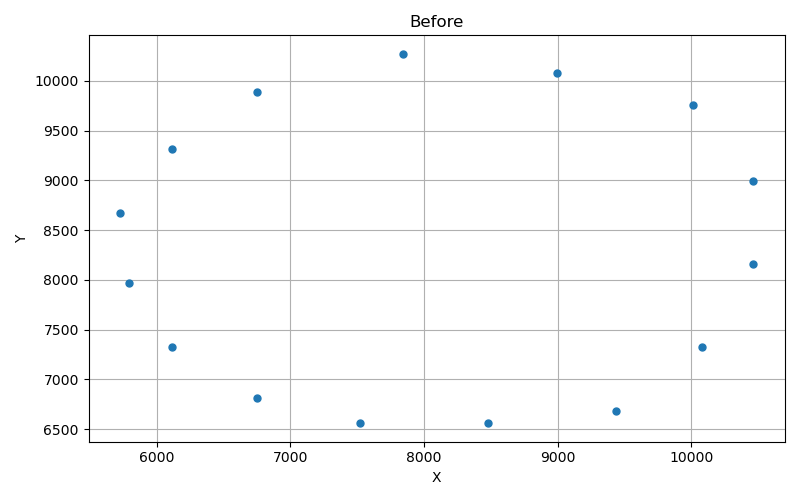
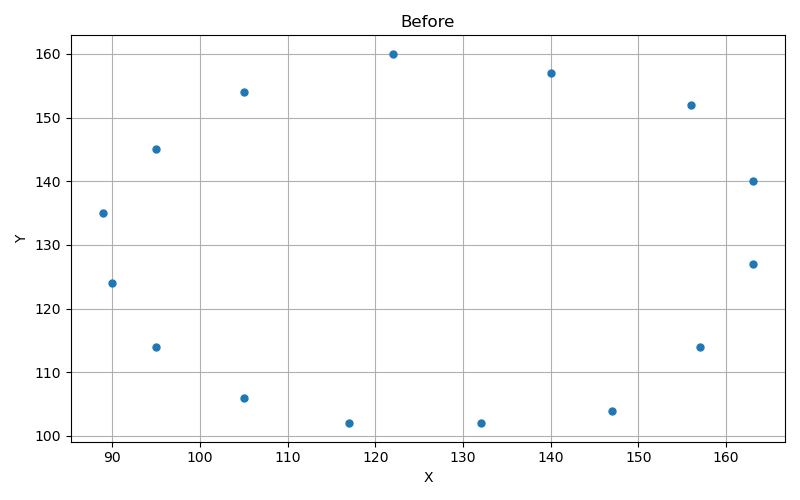
Cleaned up files

diff --git a/server/src/engine/terrain-map.ts b/server/src/engine/terrain-map.ts
@@ -1,6 +1,7 @@
 import fs from 'fs';
 import path from 'path';
-import { getTilesetFromLayer } from '../utils/tile-layer';
+import { getTilesetFromLayer } from '../utils/tiles';
+import { buildPathSpline } from 'src/utils/splines';
 
 /**
  * Breaks down a tilemap into its constituent layers, as well as providing helper methods
@@ -9,8 +10,8 @@ import { getTilesetFromLayer } from '../utils/tile-layer';
  * to account for any "new" tiles here.
  */
 export default class TerrainMap {
-    private mapLayers: Map<string, Set<string>> = new Map();
-    private pathNodes: Array<number> = [];
+    private mapLayers: Map<string, Array<{ x: number, y: number }>> = new Map();
+    public npcPath: Array<{x: number, y: number}> = [];
     public readonly tileWidth: number;
     public readonly mapWidth: number;
     public readonly mapHeight: number;
@@ -36,9 +37,6 @@ export default class TerrainMap {
         this.mapLayers.set('npc-ship-path', getTilesetFromLayer(mapData, 'npc-ship-path') || new Set());
     }
 
-
-
-
     /**
      * Helper method for determining if a given object is on a "solid" island tile or not
      * @param worldX the absolute x coordinate of that object
@@ -55,13 +53,22 @@ export default class TerrainMap {
             return false;
         }
 
-        return islandTiles.has(`${tileX},${tileY}`);
+        return islandTiles.includes({ x: tileX, y: tileY });
+    }
+
+    getNPCPathNodes()
+    {
+        const nodes = this.getTileset('npc-ship-path');
+        this.npcPath = buildPathSpline(nodes, 0.5, 25, true);
     }
 
 
-
-
-    public getTileset(layerName: string) {
+    /**
+     * Gets the array of x and y coordinates for the corresponding layer in the map
+     * @param layerName the name of the layer for which to find coordinates
+     * @returns an array of x and y coordinates, or an empty array if not found
+     */
+    public getTileset(layerName: string): Array<{x: number, y: number}> {
         const layer = this.mapLayers.get(layerName);
 
         if (!layer) {
@@ -69,13 +76,7 @@ export default class TerrainMap {
             return [];
         }
 
-        return Array.from(layer).map(key => {
-            const [tileX, tileY] = key.split(',').map(Number);
-            return {
-                worldX: tileX * this.tileWidth + this.tileWidth / 2,
-                worldY: tileY * this.tileWidth + this.tileWidth / 2
-            };
-        });
+        return layer;
     }
 
     /**

diff --git a/server/src/utils/tiles.ts b/server/src/utils/tiles.ts
@@ -1,0 +1,39 @@
+import { WorldMap } from "../types";
+
+/**
+ * Gets an array of x, y coordinates extracted from the map data.
+ * @param mapData an object read in from the map .json
+ * @param layerName the name of the layer to get, e.g. "islands"
+ * @returns an array of x and y coordinates for the tiles in that layer
+ */
+export function getTilesetFromLayer(mapData: WorldMap, layerName: string): Array<{ x: number, y: number }> {
+    // Get the requested layer
+    const layer = mapData.layers.find((l: any) => l.name === layerName);
+    const mapWidth = mapData.width;
+    let output: Array<{ x: number, y: number }> = [];
+
+    // No layer found
+    if (!layer?.data) {
+        console.warn(`[Tiles] No tilemap layer found with name: ${layerName}`);
+        return []; // break early
+    }
+
+    // Read into a buffer
+    let tileArray: Uint32Array | number[];
+    const buffer = Buffer.from(layer.data, 'base64');
+    tileArray = new Uint32Array(buffer.buffer, buffer.byteOffset, buffer.length / 4);
+
+
+    // Create the tileset from the buffer
+    tileArray.forEach((tileGid, index) => {
+        if (tileGid !== 0) {
+            const tileX = index % mapWidth;
+            const tileY = Math.floor(index / mapWidth);
+            output.push({ x: tileX, y: tileY });
+        }
+    });
+
+    // Output the loaded tileset
+    console.log(`[Tiles] Loaded ${output.length} tiles from layer: ${layerName}`);
+    return output;
+}

diff --git a/scripts/test-npc-paths.ts b/scripts/test-npc-paths.ts
@@ -1,13 +1,11 @@
 import * as path from "path";
 import fs from 'fs';
-import { sortByNearestNeighbour } from "../server/src/utils/nearest-sort"
-import { buildPathSpline } from "../server/src/utils/build-path";
-import { createPlot } from "../server/src/utils/plot";
-import { getTilesetFromLayer } from "../server/src/utils/tile-layer";
+import { buildPathSpline, sortByNearestNeighbour } from "../server/src/utils/splines";
+import { createPlot } from "./plot";
+import { getTilesetFromLayer } from "../server/src/utils/tiles";
 
 const TILEMAP_PATH = path.join(__dirname, "../shared/demo-map.json");
 const LAYER_NAME = "npc-ship-path";
-const TILE_SIZE = 64;
 
 
 
@@ -16,12 +14,11 @@ async function main() {
     // Read from the tilemap
     const mapData = JSON.parse(fs.readFileSync(TILEMAP_PATH, 'utf-8'));
 
-
-    const raw = getTilesetFromLayer(TILEMAP_PATH, LAYER_NAME);
+    const raw = getTilesetFromLayer(mapData, LAYER_NAME);
     console.log(`Found ${raw.length} path nodes`);
 
     const sorted = sortByNearestNeighbour(raw);
-    const spline = buildPathSpline(sorted, 0.5, 25, true);
+    const spline = buildPathSpline(raw, 0.5, 25, true);
 
     await createPlot({ x: sorted.map(n => n.x), y: sorted.map(n => n.y), title: "Before", output: "before.png" });
     await createPlot({ x: spline.map(n => n.x), y: spline.map(n => n.y), title: "After", output: "after.png" });

diff --git a/server/src/utils/splines.ts b/server/src/utils/splines.ts
@@ -1,4 +1,3 @@
-
 /**
  * Uses the Catmull-Rom algorithm to calculate an array
  * containing points of a cardinal spline through a given
@@ -16,6 +15,8 @@ export function buildPathSpline(
 
     if (nodes.length < 2) return nodes;
 
+    // Sort nodes
+    nodes = sortByNearestNeighbour(nodes);
 
     // Convert to [x0, y0, ..., xn, yn];
     const pts: number[] = nodes.flatMap(n => [n.x, n.y]);
@@ -66,4 +67,30 @@ export function buildPathSpline(
     if (!closeLoop) result.push(nodes[nodes.length - 1]);
 
     return result;
+}
+
+export function sortByNearestNeighbour(nodes: { x: number; y: number }[]) {
+    const remaining = [...nodes];
+    const sorted = [remaining.splice(0, 1)[0]]; // start from first point
+
+    while (remaining.length > 0) {
+        const last = sorted[sorted.length - 1];
+
+        // Find closest unvisited node
+        let nearestIdx = 0;
+        let nearestDist = Infinity;
+        for (let i = 0; i < remaining.length; i++) {
+            const dx = remaining[i].x - last.x;
+            const dy = remaining[i].y - last.y;
+            const dist = dx * dx + dy * dy; // no need for sqrt
+            if (dist < nearestDist) {
+                nearestDist = dist;
+                nearestIdx = i;
+            }
+        }
+
+        sorted.push(remaining.splice(nearestIdx, 1)[0]);
+    }
+
+    return sorted;
 }

diff --git a/server/src/types.ts b/server/src/types.ts
@@ -1,4 +1,5 @@
-import entityConfig from "../../shared/entity-config.json"
+import entityConfig from "../../shared/entity-config.json";
+import map from '../../shared/demo-map.json';
 
 // Provides type hinting to TS files using the entity config
 // This makes it easier to use the entity config without needing to import it directly into the file being used
@@ -7,3 +8,5 @@ export type EntityConfig = typeof entityConfig;
 export type PlayerConfig = typeof entityConfig["player"];
 export type ShipConfig = typeof entityConfig["ship"];
 export type NPCShipConfig = typeof entityConfig["npcShip"];
+
+export type WorldMap = typeof map;

diff --git a/scripts/path-checker.py b/scripts/path-checker.py
@@ -18,4 +18,4 @@ plt.tight_layout()
 
 output_path = data.get('output', 'plot.png')
 plt.savefig(output_path)
-print(f"Saved path to: {output_path}")
+print(f"Saved path to: ./{output_path}")
